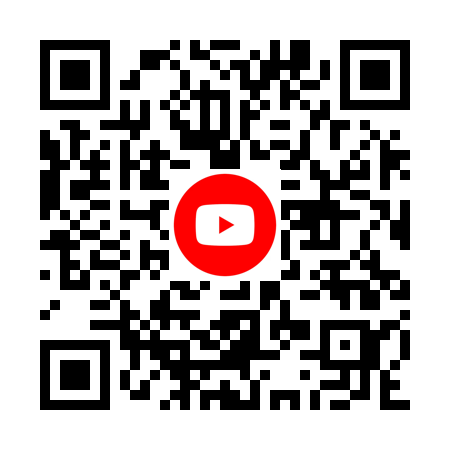
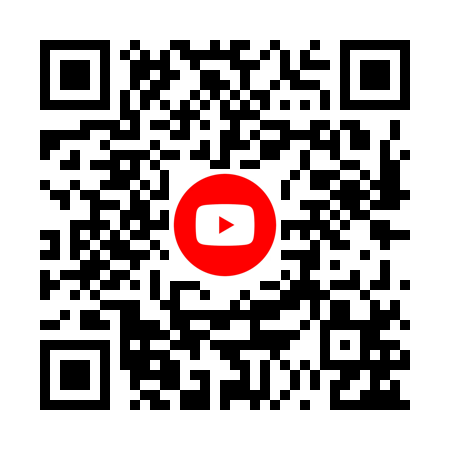
The APIs were unified and main_fastApi was removed.

Changed region(s): [[0.0622, 0.0622, 0.9333, 0.9333]]

diff --git a/fastApi.py b/fastApi.py
@@ -5,13 +5,15 @@ HTTPException for throw errors with HTTP codes
 """
 from fastapi import FastAPI, Request, HTTPException
 # for redirect to other URL
-from fastapi.responses import RedirectResponse
+from fastapi.responses import RedirectResponse, JSONResponse
 # for connect with DB
 import sqlite3
 # for get results of others APIs
 import requests
 # for get the time
 from datetime import datetime
+# archive for create Qr
+from Qr_generator import qrs
 
 app = FastAPI()
 
@@ -40,8 +42,20 @@ def get_geo_ip(ip):
         }
     except:
         return None
+    
+# it's the API-KEY
+X_API_KEY = "G7pK3wQ9"
 
-@app.get("/qr-link/{qr_id}")
+# funtion for check passwork api
+def check_api(request: Request):
+    api_key = request.headers.get("X-API-KEY")
+    if api_key != X_API_KEY:
+        raise HTTPException(status_code=401, detail="API KEY inválida")
+    return True
+
+
+""" ---------- APIs ---------- """
+@app.get("/scam/{qr_id}")
 async def scan_qr(qr_id: str, request: Request):
     try:
         # 1. get IP
@@ -94,3 +108,26 @@ async def scan_qr(qr_id: str, request: Request):
     except Exception as e:
         # return error
         raise HTTPException(status_code=500, detail=str(e))
+    
+@app.post("/create")
+async def create_qr(request: Request):
+    # verify api key
+    check_api(request)
+
+    # it's for get data
+    data = await request.json()
+
+    url = data.get("url")
+    name = data.get("name")
+    logoname = data.get("logoname")
+
+    # check data
+    if not url or not name:
+        raise HTTPException(status_code=400, detail="url and name are requared")
+    
+    qrs(url, name, logoname)
+    # print(url, name, logoname)
+
+    return JSONResponse({
+        "message" : "QR create"
+    })

diff --git a/example_json.py b/example_json.py
@@ -1,6 +1,6 @@
 import requests
 
-url_api = "http://127.0.0.1:8000/create_qr"
+url_api = "http://127.0.0.1:8000/create"
 api_key = "G7pK3wQ9"
 
 data = {
